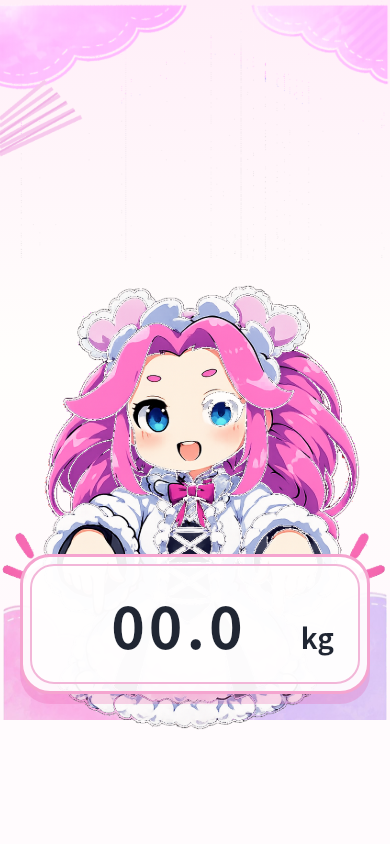
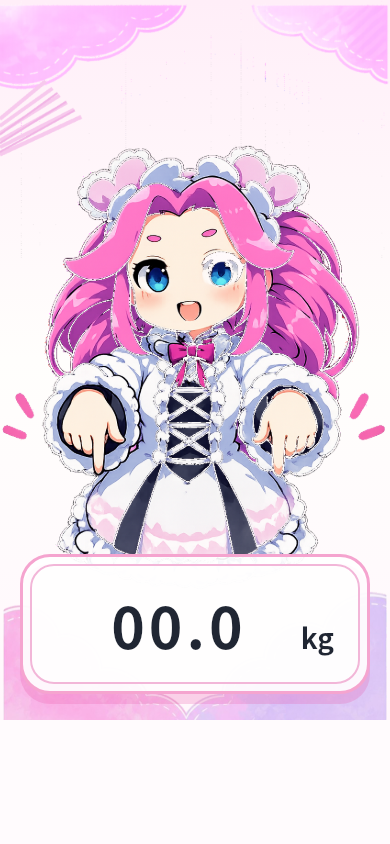
Raise home character above input

diff --git a/lib/screens/home_screen.dart b/lib/screens/home_screen.dart
@@ -156,7 +156,7 @@ class _WeightInputHero extends StatelessWidget {
                       alignment: Alignment.bottomCenter,
                       children: [
                         Positioned(
-                          bottom: -48,
+                          bottom: 92,
                           child: AnimatedSwitcher(
                             duration: const Duration(milliseconds: 280),
                             child: Image.asset(
